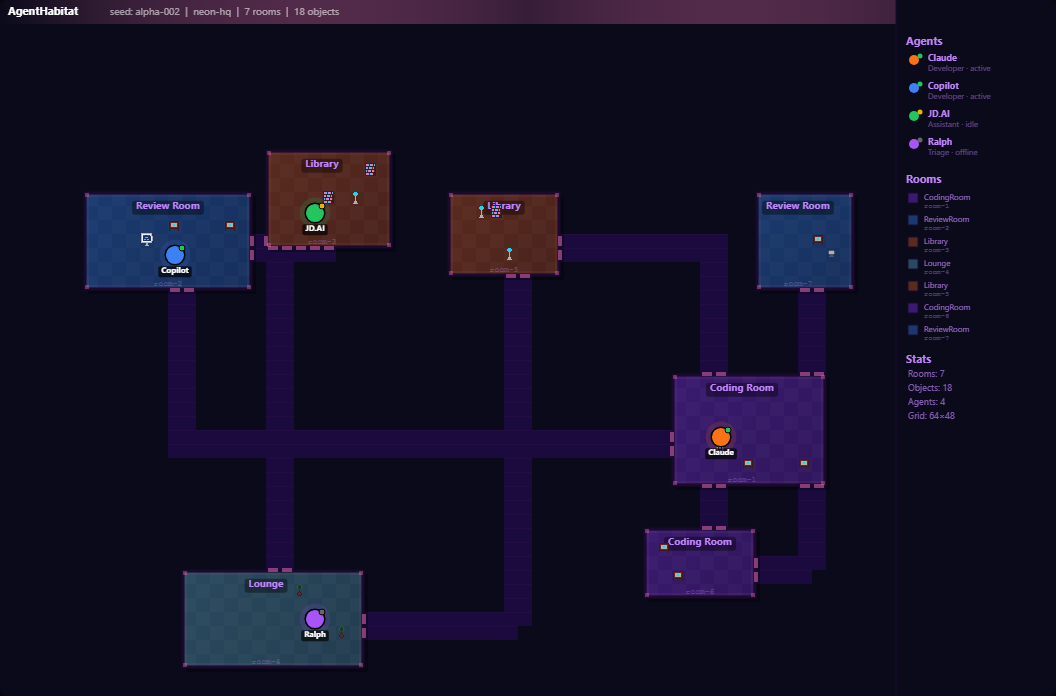
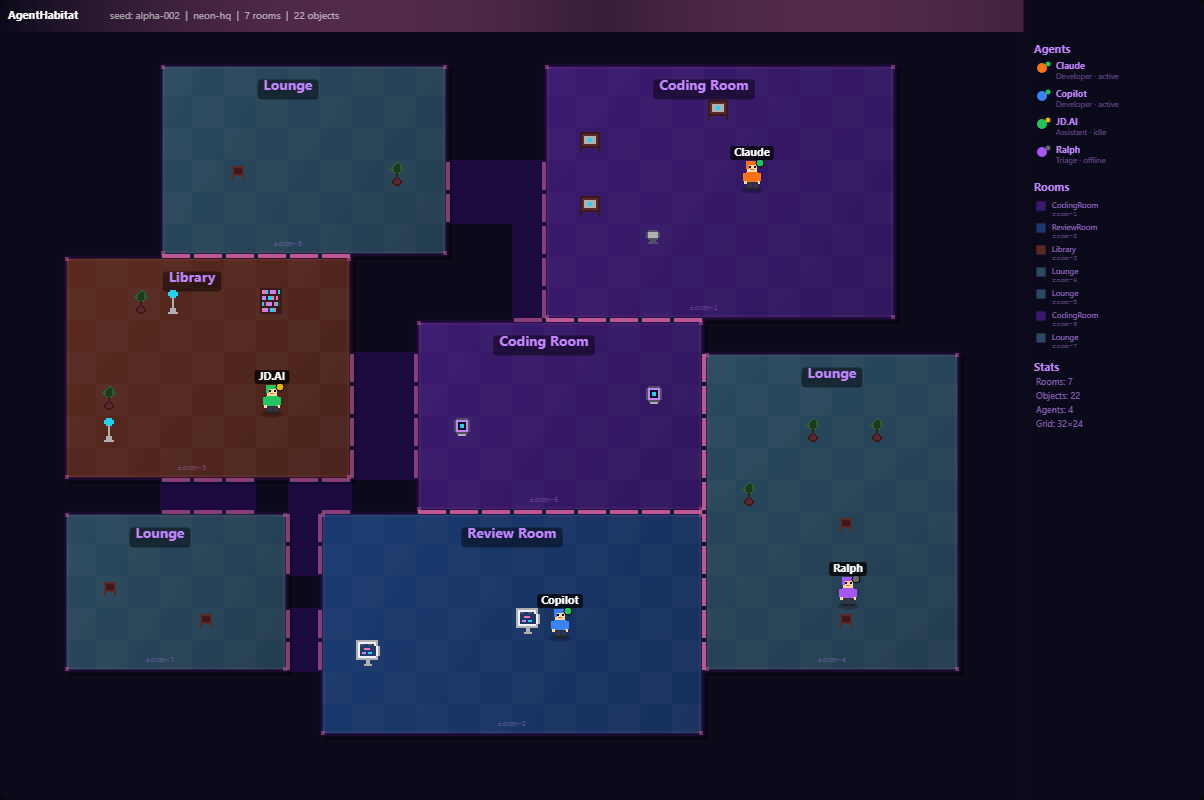
feat(renderer): 32px tiles + humanoid agent sprites + scaled UI
Major visual upgrade:
- Tiles now 32x32 (up from 14px) matching Gather/WorkAdventure scale
- Grid reduced to 32x24 for reasonable canvas size
- Humanoid agent sprites with: head, hair (agent color), eyes, shirt,
  arms, hands, pants, shoes, shadow ellipse
- Status indicator dots on agents
- Name labels above agents
- Object sprites scaled 2x to fill 32px tiles
- Wider corridors at 2-tile (64px) width
- Larger room labels and title bar fonts

diff --git a/tools/worldgen-renderer.html b/tools/worldgen-renderer.html
@@ -25,8 +25,8 @@
   <select id="style1"><option>retro-office</option><option>forest-lab</option><option>neon-hq</option></select>
   <select id="style2"><option>forest-lab</option><option>retro-office</option><option>neon-hq</option></select>
   <label>Size:</label>
-  <input id="width" type="number" value="64" style="width:50px">
-  <input id="height" type="number" value="48" style="width:50px">
+  <input id="width" type="number" value="32" style="width:50px">
+  <input id="height" type="number" value="24" style="width:50px">
   <button onclick="generate()">Generate All</button>
   <button onclick="downloadAll()">Download PNGs</button>
 </div>
@@ -246,7 +246,7 @@ const SPRITE_PALS = {
   'neon-hq': ['#0a0a1a','#1a0a2e','#2a1a4e','#1a1a3e','#3a2a5e','#4a3a6e','#3a1a1a','#5a2a2a','#b0b0b0','#505060','#22d3ee','#f472b6','#c084fc','#1a3a1a','#2a5a3a','#f0f0ff'],
 };
 
-function drawPixelSprite(ctx, name, px, py, style) {
+function drawPixelSprite(ctx, name, px, py, style, scale = 2) {
   const sprite = PIXEL_SPRITES[name] || PIXEL_SPRITES['desk'];
   const pal = SPRITE_PALS[style] || SPRITE_PALS['retro-office'];
   for (let row = 0; row < sprite.length; row++) {
@@ -254,7 +254,7 @@ function drawPixelSprite(ctx, name, px, py, style) {
       const ch = sprite[row][col];
       if (ch === '.') continue;
       ctx.fillStyle = pal[parseInt(ch, 16)];
-      ctx.fillRect(px + col, py + row, 1, 1);
+      ctx.fillRect(px + col * scale, py + row * scale, scale, scale);
     }
   }
 }
@@ -262,10 +262,10 @@ function drawPixelSprite(ctx, name, px, py, style) {
 // --- Renderer ---
 function render(canvas, world) {
   const pal = PALETTES[world.opts.style] || PALETTES['retro-office'];
-  const tileSize = 14;
+  const tileSize = 32;
   const W = world.opts.width, H = world.opts.height;
-  const pad = 24; // top padding for title
-  const legendW = 160; // sidebar width
+  const pad = 32; // top padding for title
+  const legendW = 180; // sidebar width
   canvas.width = W * tileSize + legendW;
   canvas.height = H * tileSize + pad;
   const ctx = canvas.getContext('2d');
@@ -342,14 +342,14 @@ function render(canvas, world) {
     ctx.fillRect(rx + rw - cs - 1, ry + rh - cs - 1, cs, cs);
 
     // Room label with background pill
-    ctx.font = 'bold 10px system-ui';
+    ctx.font = 'bold 14px system-ui';
     ctx.textAlign = 'center';
     const labelText = r.archetype.replace(/Room$/, ' Room');
     const tm = ctx.measureText(labelText);
-    const lx = r.cx * tileSize, ly = (r.y + 1.2) * tileSize + oY;
-    ctx.fillStyle = '#00000060';
+    const lx = r.cx * tileSize, ly = (r.y + 0.8) * tileSize + oY;
+    ctx.fillStyle = '#00000070';
     ctx.beginPath();
-    ctx.roundRect(lx - tm.width/2 - 4, ly - 8, tm.width + 8, 14, 3);
+    ctx.roundRect(lx - tm.width/2 - 6, ly - 10, tm.width + 12, 20, 4);
     ctx.fill();
     ctx.fillStyle = pal.label;
     ctx.fillText(labelText, lx, ly);
@@ -385,64 +385,87 @@ function render(canvas, world) {
     }
   }
 
-  // Objects as pixel sprites
+  // Objects as pixel sprites (scaled to tile size)
   for (const obj of world.objects) {
-    const ox = obj.x * tileSize - 1;
-    const oy = obj.y * tileSize + oY - 1;
+    const ox = obj.x * tileSize;
+    const oy = obj.y * tileSize + oY;
     const sprName = obj.type === 'table' ? 'desk' : obj.type;
     if (PIXEL_SPRITES[sprName]) {
-      drawPixelSprite(ctx, sprName, ox, oy, world.opts.style);
+      drawPixelSprite(ctx, sprName, ox, oy, world.opts.style, 2);
     } else {
-      // Fallback: small colored dot
+      // Fallback: small colored square
       ctx.fillStyle = pal.obj + '80';
-      ctx.beginPath();
-      ctx.arc(obj.x*tileSize + tileSize/2, obj.y*tileSize + oY + tileSize/2, 3, 0, Math.PI*2);
-      ctx.fill();
+      ctx.fillRect(ox + 8, oy + 8, 16, 16);
     }
   }
 
-  // Agents
+  // Agents as pixel art humanoid sprites
   for (const agent of (world.agents || [])) {
-    const ax = agent.x * tileSize + tileSize / 2;
-    const ay = agent.y * tileSize + oY + tileSize / 2;
-    const statusColor = agent.status === 'active' ? '#22c55e' : agent.status === 'idle' ? '#eab308' : '#666';
+    const ax = agent.x * tileSize;
+    const ay = agent.y * tileSize + oY;
+    const sc = agent.status === 'active' ? '#22c55e' : agent.status === 'idle' ? '#eab308' : '#666';
+    const c = agent.color;
 
-    // Agent glow ring
+    // Shadow
+    ctx.fillStyle = '#00000030';
     ctx.beginPath();
-    ctx.arc(ax, ay, tileSize * 1.1, 0, Math.PI * 2);
-    ctx.fillStyle = agent.color + '25';
+    ctx.ellipse(ax + 16, ay + 30, 10, 4, 0, 0, Math.PI * 2);
     ctx.fill();
 
-    // Agent body circle
-    ctx.beginPath();
-    ctx.arc(ax, ay, tileSize * 0.7, 0, Math.PI * 2);
-    ctx.fillStyle = agent.color;
-    ctx.fill();
-    ctx.strokeStyle = '#000';
-    ctx.lineWidth = 1.5;
-    ctx.stroke();
+    // Body (simplified humanoid)
+    // Head
+    ctx.fillStyle = '#ffd5a0';
+    ctx.fillRect(ax + 11, ay + 2, 10, 10);
+    // Hair
+    ctx.fillStyle = c;
+    ctx.fillRect(ax + 10, ay + 1, 12, 4);
+    ctx.fillRect(ax + 10, ay + 1, 3, 8);
+    // Eyes
+    ctx.fillStyle = '#000';
+    ctx.fillRect(ax + 13, ay + 6, 2, 2);
+    ctx.fillRect(ax + 18, ay + 6, 2, 2);
+    // Mouth
+    ctx.fillStyle = '#c08060';
+    ctx.fillRect(ax + 14, ay + 9, 4, 1);
+    // Shirt
+    ctx.fillStyle = c;
+    ctx.fillRect(ax + 10, ay + 12, 12, 10);
+    ctx.fillRect(ax + 7, ay + 13, 4, 8); // left arm
+    ctx.fillRect(ax + 21, ay + 13, 4, 8); // right arm
+    // Hands
+    ctx.fillStyle = '#ffd5a0';
+    ctx.fillRect(ax + 8, ay + 21, 3, 3);
+    ctx.fillRect(ax + 21, ay + 21, 3, 3);
+    // Pants
+    ctx.fillStyle = '#334';
+    ctx.fillRect(ax + 11, ay + 22, 5, 6);
+    ctx.fillRect(ax + 17, ay + 22, 5, 6);
+    // Shoes
+    ctx.fillStyle = '#222';
+    ctx.fillRect(ax + 10, ay + 28, 6, 2);
+    ctx.fillRect(ax + 17, ay + 28, 6, 2);
 
-    // Status dot
+    // Status indicator
     ctx.beginPath();
-    ctx.arc(ax + tileSize * 0.5, ay - tileSize * 0.5, 3, 0, Math.PI * 2);
-    ctx.fillStyle = statusColor;
+    ctx.arc(ax + 24, ay + 3, 4, 0, Math.PI * 2);
+    ctx.fillStyle = sc;
     ctx.fill();
     ctx.strokeStyle = '#000';
     ctx.lineWidth = 1;
     ctx.stroke();
 
-    // Agent name label
-    ctx.font = 'bold 8px system-ui';
+    // Name label
+    ctx.font = 'bold 11px system-ui';
     ctx.textAlign = 'center';
     ctx.textBaseline = 'top';
     const nameText = agent.name;
     const nm = ctx.measureText(nameText);
-    ctx.fillStyle = '#000000aa';
+    ctx.fillStyle = '#000000bb';
     ctx.beginPath();
-    ctx.roundRect(ax - nm.width / 2 - 3, ay + tileSize * 0.8, nm.width + 6, 11, 2);
+    ctx.roundRect(ax + 16 - nm.width / 2 - 4, ay - 14, nm.width + 8, 14, 3);
     ctx.fill();
     ctx.fillStyle = '#fff';
-    ctx.fillText(nameText, ax, ay + tileSize * 0.8 + 1);
+    ctx.fillText(nameText, ax + 16, ay - 13);
   }
 
   // Title bar
